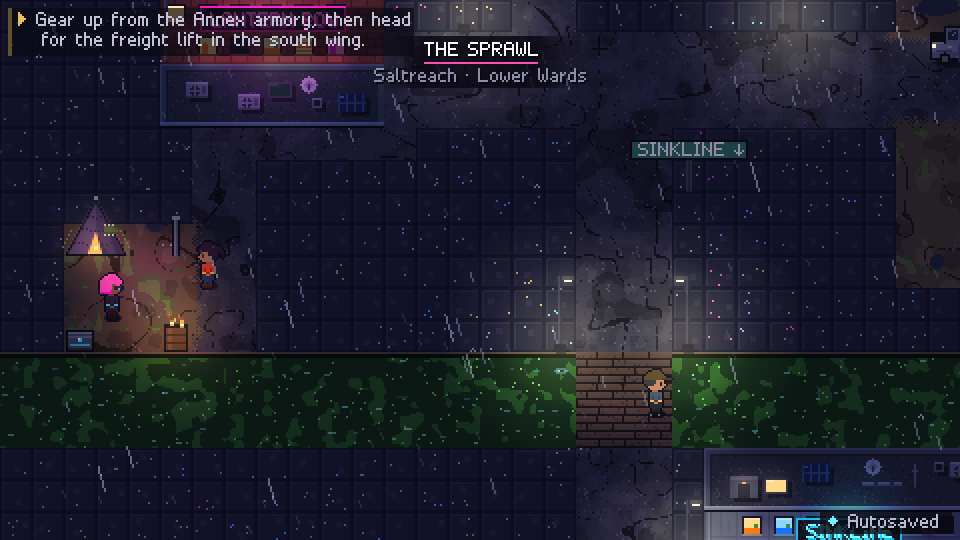
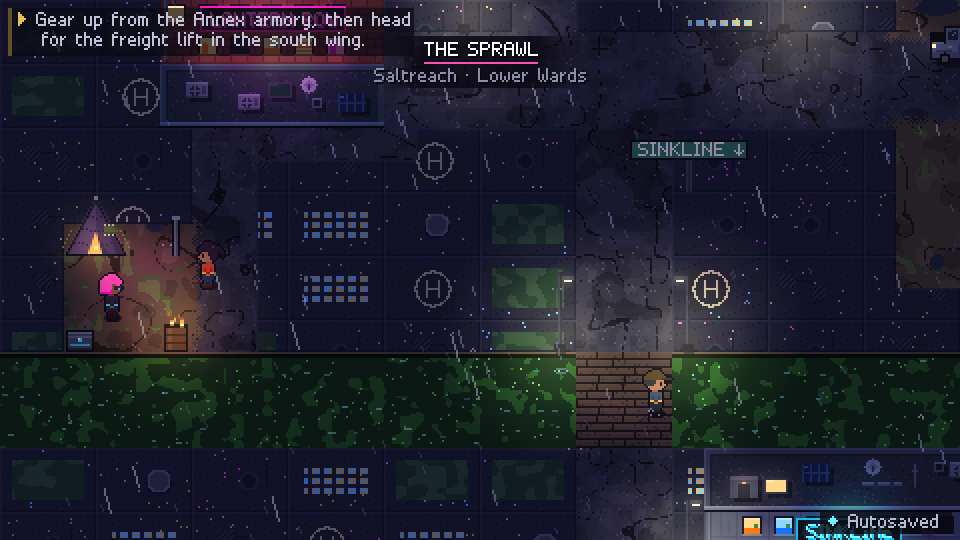
Level: the Sprawl's rooftops, and Dmitri's camp
City blocks on the world map are buildings three tiles by two, each with a
parapet round its own edge and one feature of its own (HVAC plant, water tank,
skylight grid, rooftop garden, helipad, dish and mast): the travel between
places reads as city, not a grid of identical squares. Behind the Annex's
loose panel, the bedroll, ration wrappers and badge lanyard the narration
describes are really there.

diff --git a/src/field/tiles.ts b/src/field/tiles.ts
@@ -595,17 +595,63 @@ const wHighway: Painter = (lx, ly, wx) => {
   return P.hwy;
 };
 
-const wBlock: Painter = (lx, ly, wx, wy, tx, ty) => {
-  // Dense rooftops: each tile is a roof with parapet, a few lit windows and HVAC dots.
-  const seed = hash2(tx, ty, 171);
-  if (lx === 0 || ly === 0) return P.blockRoofD;
-  if (lx === 15 || ly === 15) return P.blockRoofD;
-  if (lx === 1 || ly === 1) return P.blockRoofL;
-  const hvx = 3 + ((seed * 9) | 0), hvy = 3 + ((seed * 71) % 8 | 0);
-  if (lx >= hvx && lx <= hvx + 2 && ly >= hvy && ly <= hvy + 2) return P.blockRoofL;
+/**
+ * City blocks seen from above: buildings three tiles by two, each a roof with a parapet round its
+ * own edge and one feature of its own (HVAC plant, water tank, skylights, a rooftop garden, a
+ * helipad, a dish), so the Sprawl reads as a city rather than a grid of identical squares.
+ */
+const K_GARDEN = C('#2a4432'), K_GARDEN_L = C('#3a5a3e'), K_PAD = C('#2a2a34'), K_PAINT = C('#c8c0a0'), K_TANK = C('#4a4a58'), K_TANK_L = C('#6a6a7a');
+const wBlock: Painter = (lx, ly, wx, wy, tx, ty, q) => {
+  const bx0 = Math.floor(tx / 3) * 3, by0 = Math.floor(ty / 2) * 2;
+  const bx = wx - bx0 * 16, by = wy - by0 * 16;
+  const seed = hash2(bx0, by0, 171);
+  // Parapet: the building's own edge, or wherever the block meets other ground.
+  const edgeL = bx === 0 || (lx === 0 && q.at(tx - 1, ty) !== 'w_block');
+  const edgeR = bx === 47 || (lx === 15 && q.at(tx + 1, ty) !== 'w_block');
+  const edgeT = by === 0 || (ly === 0 && q.at(tx, ty - 1) !== 'w_block');
+  const edgeB = by === 31 || (ly === 15 && q.at(tx, ty + 1) !== 'w_block');
+  if (edgeL || edgeT) return P.blockRoofL;
+  if (edgeR || edgeB) return P.blockRoofD;
+  const kind = Math.floor(seed * 6);
+  const cx = 24 + Math.round((hash2(bx0, by0, 173) - 0.5) * 16), cy = 16;
+  switch (kind) {
+    case 0: // HVAC plant: two units and a duct between
+      if ((bx >= cx - 12 && bx <= cx - 5 && by >= 9 && by <= 15) || (bx >= cx + 4 && bx <= cx + 10 && by >= 14 && by <= 21)) return (bx + by) % 3 === 0 ? P.blockRoofD : P.blockRoofL;
+      if (by === 12 && bx > cx - 5 && bx < cx + 4) return P.blockRoofD;
+      break;
+    case 1: { // water tank on legs
+      const d = Math.hypot(bx - cx, by - cy);
+      if (d < 6) return d > 4.8 ? K_TANK_L : K_TANK;
+      if (d < 7.2 && by > cy) return P.blockRoofD;
+      break;
+    }
+    case 2: // skylights: a grid of lit panes
+      if (bx >= 8 && bx <= 39 && by >= 8 && by <= 23 && bx % 6 < 4 && by % 5 < 3) return hash2(bx0 + bx, by0 + by, 174) < 0.5 ? P.blockWin : P.blockWinC;
+      break;
+    case 3: // a rooftop garden
+      if (bx >= 6 && bx <= 41 && by >= 6 && by <= 25) return valueNoise(wx / 5, wy / 5, 175) > 0.55 ? K_GARDEN_L : K_GARDEN;
+      break;
+    case 4: { // helipad: a dark square, a painted ring and an H
+      const ax = Math.abs(bx - cx), ay = Math.abs(by - cy);
+      if (ax <= 10 && ay <= 10) {
+        const r = Math.hypot(bx - cx, by - cy);
+        if (r > 8 && r < 9.2) return K_PAINT;
+        if ((ax === 3 && ay <= 4) || (ay === 0 && ax <= 3)) return K_PAINT;
+        return K_PAD;
+      }
+      break;
+    }
+    default: { // a dish and a mast
+      const d = Math.hypot(bx - cx, by - cy);
+      if (d < 4.5) return d > 3.4 ? P.blockRoofL : P.blockRoofD;
+      if (bx === cx + 9 && by >= 6 && by <= 20) return P.blockRoofD;
+      if (bx === cx + 9 && by === 5) return P.blockWinP;
+    }
+  }
+  // A few lit windows along the roof edge and the odd vent, otherwise plain roof.
   const wl = hash2(wx, wy, 172);
-  if (wl < 0.012) return seed < 0.5 ? P.blockWin : seed < 0.8 ? P.blockWinC : P.blockWinP;
-  return P.blockRoof;
+  if (wl < 0.008) return seed < 0.5 ? P.blockWin : seed < 0.8 ? P.blockWinC : P.blockWinP;
+  return (bx + by * 3) % 23 === 0 ? P.blockRoofD : P.blockRoof;
 };
 
 export const PAINTERS: Record<TerrainId, Painter> = {

diff --git a/src/field/props.ts b/src/field/props.ts
@@ -308,6 +308,27 @@ export const PROPS: Partial<Record<PropKind, PropPainter>> = {
     });
   },
 
+  /** Someone's camp on the floor: a bedroll and blanket, ration wrappers, a badge on its lanyard. */
+  bedroll(b, p) {
+    const x = p.x * TS, y = p.y * TS, g = b.g;
+    g.fillStyle = '#0f0e17'; g.fillRect(x + 1, y + 4, 22, 10);
+    g.fillStyle = '#4a5a3a'; g.fillRect(x + 2, y + 5, 20, 8);
+    g.fillStyle = '#6a7a4a'; g.fillRect(x + 2, y + 5, 20, 1);
+    // The blanket thrown back, and a rolled jacket for a pillow.
+    g.fillStyle = '#8c2f39'; g.fillRect(x + 10, y + 5, 12, 8);
+    g.fillStyle = '#a8404a'; g.fillRect(x + 10, y + 5, 12, 1);
+    g.fillStyle = '#2a2a34'; g.fillRect(x + 2, y + 6, 5, 6);
+    // Ration wrappers.
+    g.fillStyle = '#c8b040'; g.fillRect(x + 25, y + 6, 3, 2);
+    g.fillStyle = '#d8d8d8'; g.fillRect(x + 27, y + 11, 3, 2); g.fillRect(x + 4, y + 15, 2, 1);
+    // The badge: a K-M card on a red lanyard, lit by its chip.
+    g.fillStyle = '#c02040'; g.fillRect(x + 23, y + 13, 1, 3); g.fillRect(x + 24, y + 12, 4, 1);
+    b.both((c) => {
+      c.fillStyle = '#e8e8f0'; c.fillRect(x + 24, y + 14, 4, 3);
+      c.fillStyle = '#3fe0f0'; c.fillRect(x + 25, y + 15, 2, 1);
+    });
+  },
+
   /** Containment field pylon: a squat emitter column, a lit coil and a cap that glows its colour. */
   pylon(b, p) {
     blockFoot(b, p);

diff --git a/src/field/types.ts b/src/field/types.ts
@@ -55,7 +55,7 @@ export type PropKind =
   | 'holo' | 'poster' | 'counter' | 'shelf' | 'bed' | 'table' | 'stool' | 'couch' | 'plant' | 'screen'
   | 'capsule' | 'bar' | 'rack' | 'desk' | 'pod' | 'server' | 'tank' | 'fence' | 'sandbags' | 'tent' | 'pylon'
   | 'catwalk_rail' | 'train' | 'valve' | 'cryopod' | 'door_lab' | 'jukebox' | 'arcade' | 'sign_post' | 'bollard'
-  | 'window' | 'lampfloor' | 'sign_board' | 'tires' | 'body' | 'ladder' | 'tag' | 'banner' | 'crest' | 'memorial';
+  | 'window' | 'lampfloor' | 'sign_board' | 'tires' | 'body' | 'ladder' | 'tag' | 'banner' | 'crest' | 'memorial' | 'bedroll';
 
 export interface PropDef {
   kind: PropKind;

diff --git a/src/data/maps/annex.ts b/src/data/maps/annex.ts
@@ -106,6 +106,8 @@ export const annex: MapDef = {
     { kind: 'steam', x: 24, y: 31, color: '#ff9aa8' },
     { kind: 'steam', x: 33, y: 31, color: '#ff9aa8' },
     { kind: 'barrier', x: 37, y: 31, w: 3, pass: true },
+    // Dmitri's camp behind the loose panel: what the narration describes is really there.
+    { kind: 'bedroll', x: 12, y: 21, pass: true, when: (f) => !!f.annex_panel },
     // Wayfinding: the lab's own wall signs.
     { kind: 'sign_post', x: 9, y: 7, text: 'LABS ↓' },
     { kind: 'sign_post', x: 16, y: 18, text: 'ARMORY ↓' },
